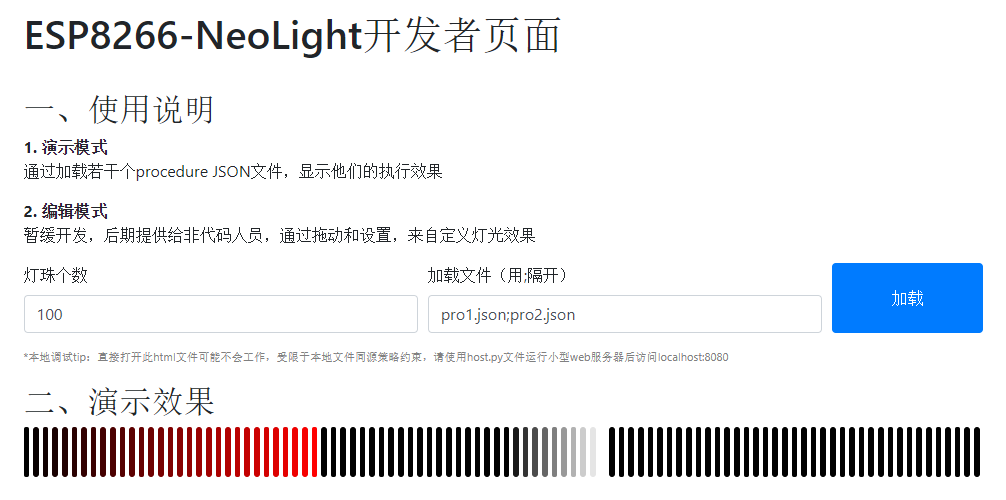
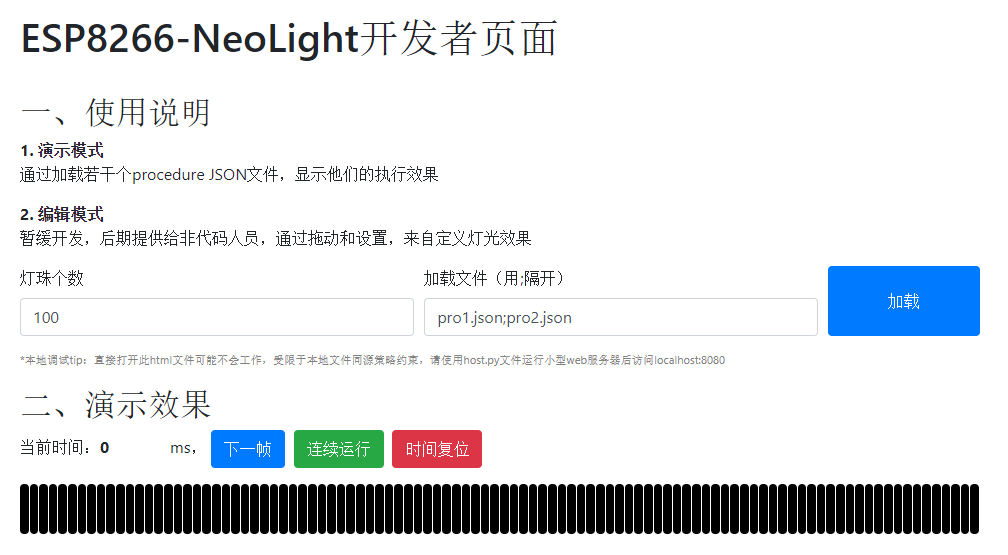
update number

diff --git a/index.html b/index.html
@@ -32,7 +32,7 @@
     <div class="form-row">
         <div class="form-group col-md-5">
             <label for="input_number">灯珠个数</label>
-            <input type="number" class="form-control" id="input_number" placeholder="number" value="20">
+            <input type="number" class="form-control" id="input_number" placeholder="number" value="100">
         </div>
         <div class="form-group col-md-5">
             <label for="input_procudures">加载文件（用;隔开）</label>
